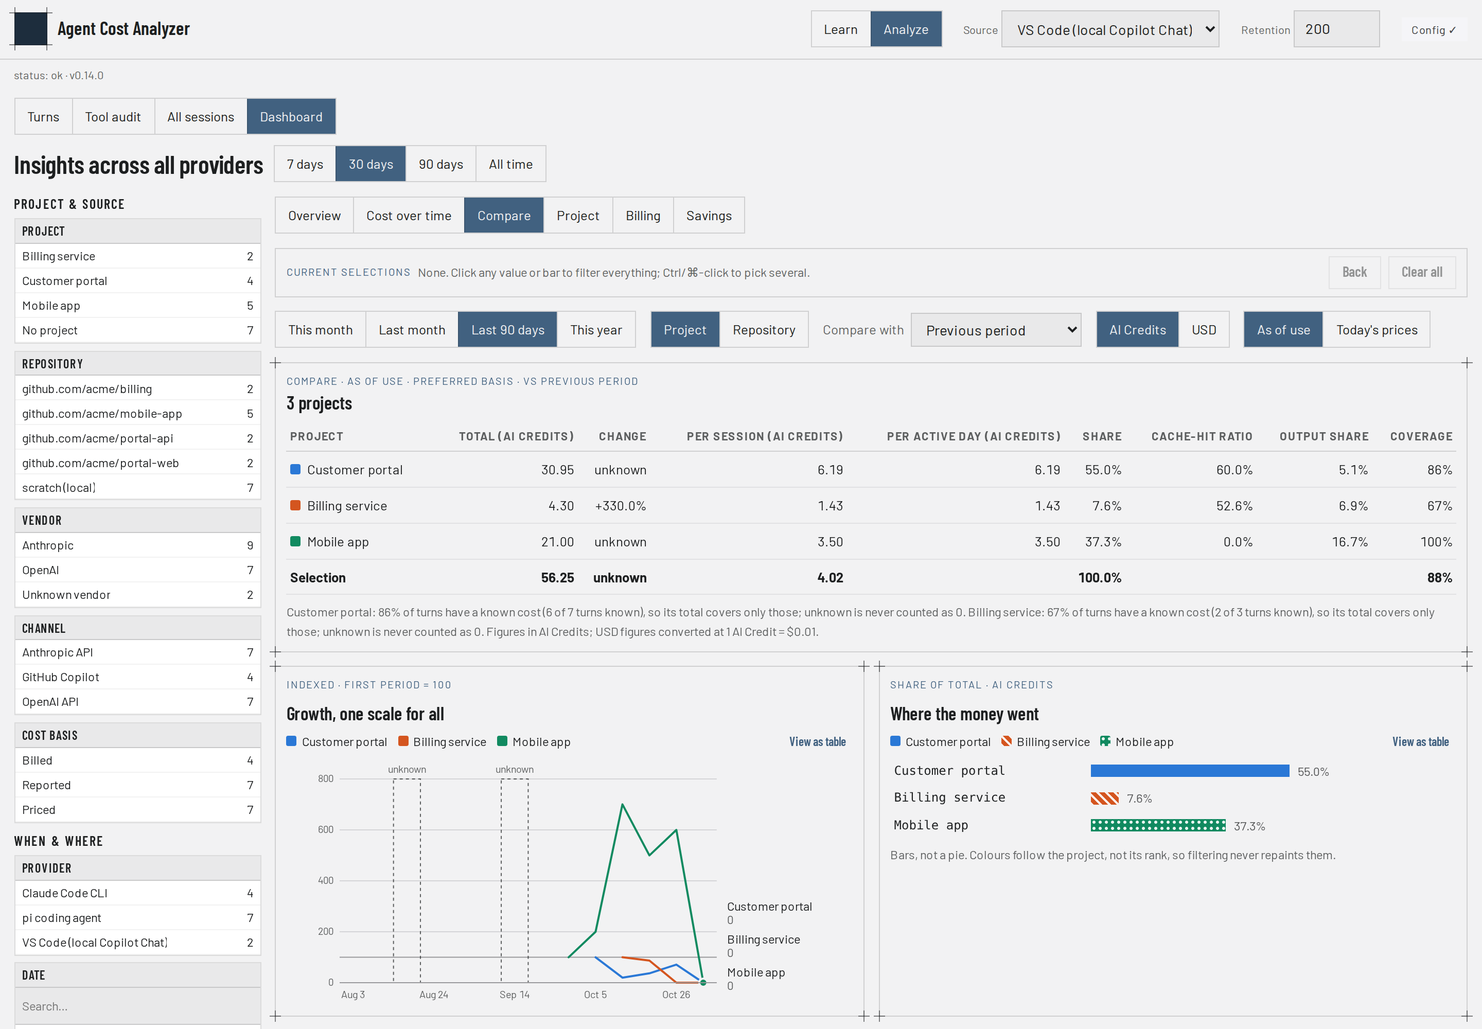
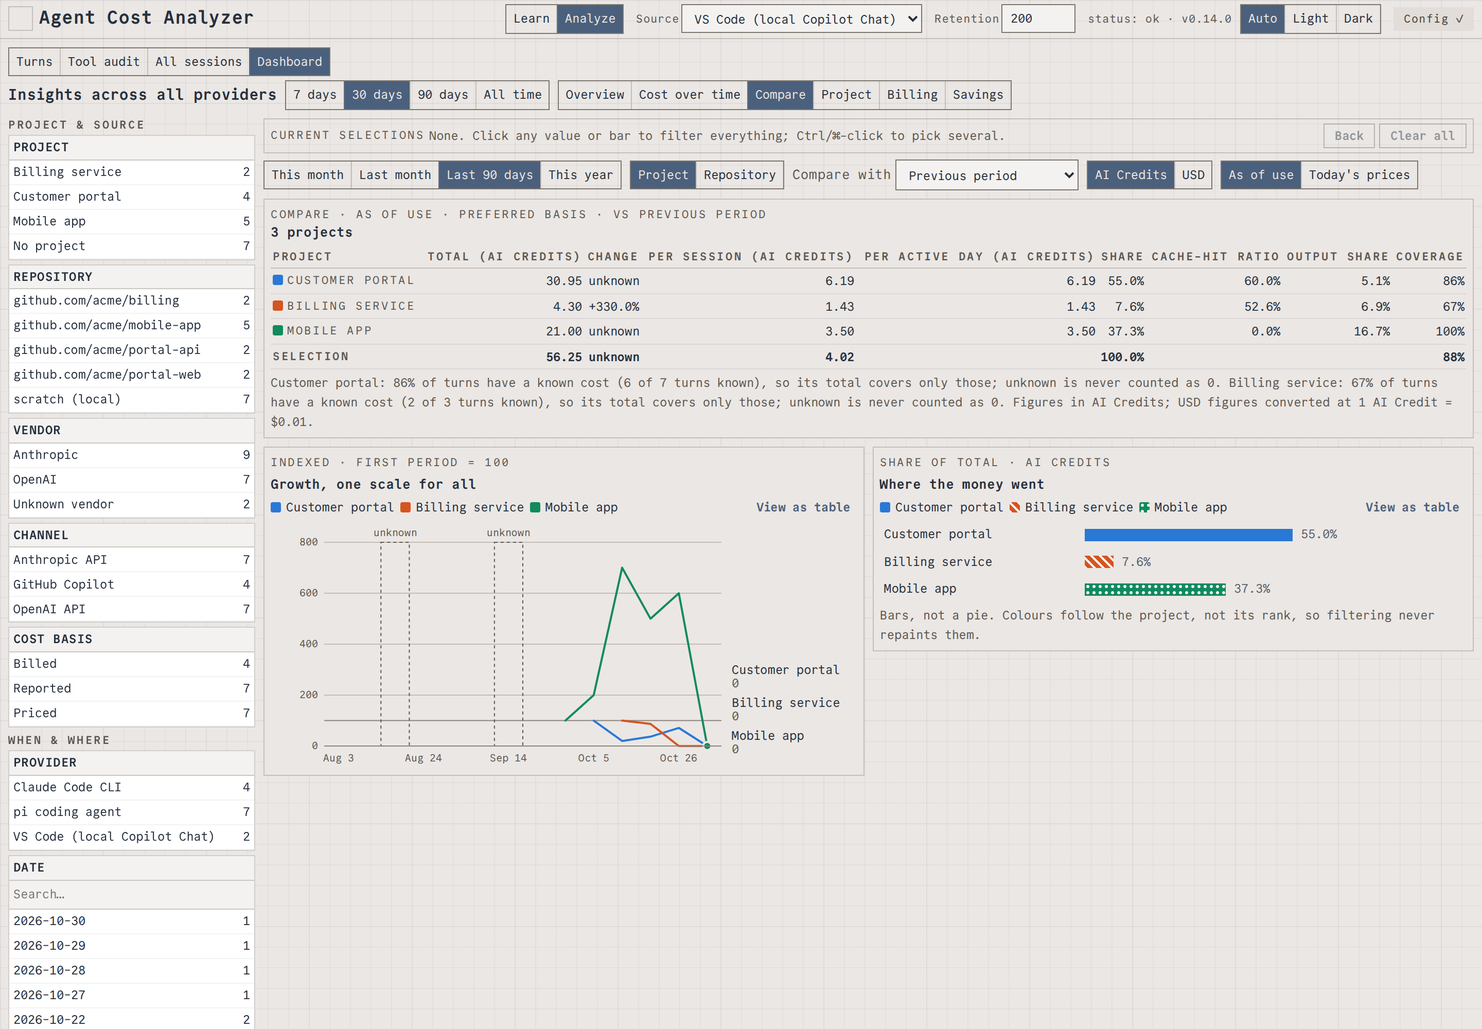
docs(17): L5 architecture, vision, User Guide colour theme, changelogs; regenerate standalone screenshots

diff --git a/docs/plans/dense-ledger-ui.md b/docs/plans/dense-ledger-ui.md
@@ -2,7 +2,7 @@
 
 **Last changed:** 2026-11-14 · **Source:** https://github.com/raulkivi/agent-cost-analyzer
 
-**Status: Increment 1 (P0-P7) done 2026-11-14; owner decisions D1-D4 accepted 2026-11-14; L1-L6 not started.** Phase 17 in
+**Status: Increment 1 (P0-P7) done 2026-11-14; owner decisions D1-D4 accepted 2026-11-14; Increment 2 L1-L5 done 2026-11-14; L6 review next.** Phase 17 in
 [implementation-plan.md](../implementation-plan.md).
 
 The question this answers: **"Why does the web UI need so much scrolling,
@@ -99,6 +99,22 @@ Baseline on the e2e fixture at 1440x900:
   - Light: parchment `#ebe7e4`, panel `#f4f2f0`.
   - One blue accent plus rust, alpha hairlines, radius 0.
   - Dark-mode series reuse the dark steps from `theme-vscode.css`.
+- Built in Increment 2 beyond the first design:
+  - An extra `--color-control-border` token. The alpha hairlines are too
+    faint for control outlines (3:1 needed), so buttons, inputs, segments and
+    filter chips use it, with `var(--color-divider)` as the fallback outside
+    ledger mode.
+  - Dark-mode overrides for hard-coded alert and list-box colours that the
+    token sets did not reach.
+  - Density tuning L3 needed in ledger mode so the Increment 1 limits still
+    hold: UI text 12px, tables 12px/1.3, tighter stat tile padding, turns
+    table cells 4px and headers 10px.
+  - `colorMode` host capability (`host-capabilities.ts`): true only for the
+    HTTP transport, so the webview and MCP Apps never show the switch or get
+    the attribute. The preference is stored under `localStorage` key
+    `aca.colorMode` (try/catch).
+  - Playwright projects `light` and `dark` (`colorScheme`) run the axe specs;
+    `color-mode.spec.ts` runs in `light` only.
 
 ## 5. Owner decisions
 
@@ -132,11 +148,11 @@ CHANGELOG updates)
 
 | ID | Work | Exit criterion | Complexity | Model | Depends on |
 |---|---|---|---|---|---|
-| L1 | Theme architecture: `html[data-color-mode=dark]` and `[light]` token sets in `theme.css` (palette in §4); `--font-mono` and `--font-prose` tokens; `fonts.ts` imports Commit Mono (400/700) and Source Serif 4 (400/600) and drops Barlow, `package.json` deps updated; `THIRD-PARTY-NOTICES.md` with the OFL notices; `theme-contrast.test.ts` gains standalone-light and standalone-dark themes; a new test that every ledger rule is scoped under `[data-color-mode]` (mirrors the `theme-vscode` scoping test); `standalone-build.test.ts` updated for the new font files | Contrast tests for both modes green; extension and MCP build tests unchanged and green; the `brand.css` test untouched | high | Opus | Increment 1 merged |
-| L2 | Colour-mode switch: pure `resolveColorMode(pref, prefersDark)` in `lib/`; `ColorModeSwitch` (Auto/Light/Dark `SegmentedControl`) in `AppHeader`, HTTP transport only; preference kept in `localStorage` (try/catch); `matchMedia` listener for Auto; attribute set in `main.tsx` before the first render (no flash) | Unit tests for the resolver, the switch and host gating; the webview never gets the attribute | medium | Sonnet | L1 |
-| L3 | Ledger component rules under `[data-color-mode]`: no corner marks; mono uppercase 11px labels with 0.12em tracking (`th`, `.card-kicker`, `.stat-tile-label`, `h6`); mono tabular numbers (`.table td`, `.stat-tile-value`, chart axes, `.hbar-value`); serif prose (`.insights-narrative`, ExplanationPanel body, Learn explanation); mono headings; faint grid texture on `body` only; bare `monospace` uses in `theme.css` become `var(--font-mono)` | `theme.test.ts` rule assertions; contrast green | medium | Sonnet | L1 |
-| L4 | Playwright: a `colorScheme: 'dark'` project running the axe specs with contrast on; `color-mode.spec.ts` covering the switch, persistence, Auto following the emulated scheme and no flash; checks that the MCP views and the VS Code panel don't change (existing mcp-apps e2e and wdio `layout-theme` stay green) | Both colour schemes pass axe; CI green | medium | Sonnet | L2, L3 |
-| L5 | Docs and media: `architecture.md` §4.2 and §13 (dark theme now in scope, standalone); `vision.md` §3.3; Phase 8 marked "superseded for the standalone app by Phase 17"; User Guide colour-mode section; root CHANGELOG `[Unreleased] Added/Changed`; regenerate the app screenshots (`packages/web/e2e/support/screenshots.mts`) and the panel stills (`scripts/ui-check/screenshots.mts`, density only); Gantt: Phase 17 at 100% and step 10.22 un-held | Docs reviewed; images refreshed | medium | Sonnet | L4 |
+| L1 | **Done 2026-11-14.** Theme architecture: `html[data-color-mode=dark]` and `[light]` token sets in `theme.css` (palette in §4); `--font-mono` and `--font-prose` tokens; `fonts.ts` imports Commit Mono (400/700) and Source Serif 4 (400/600) and drops Barlow, `package.json` deps updated; `THIRD-PARTY-NOTICES.md` with the OFL notices; `theme-contrast.test.ts` gains standalone-light and standalone-dark themes; a new test that every ledger rule is scoped under `[data-color-mode]` (mirrors the `theme-vscode` scoping test); `standalone-build.test.ts` updated for the new font files | Contrast tests for both modes green; extension and MCP build tests unchanged and green; the `brand.css` test untouched | high | Opus | Increment 1 merged |
+| L2 | **Done 2026-11-14.** Colour-mode switch: pure `resolveColorMode(pref, prefersDark)` in `lib/`; `ColorModeSwitch` (Auto/Light/Dark `SegmentedControl`) in `AppHeader`, HTTP transport only; preference kept in `localStorage` (try/catch); `matchMedia` listener for Auto; attribute set in `main.tsx` before the first render (no flash) | Unit tests for the resolver, the switch and host gating; the webview never gets the attribute | medium | Sonnet | L1 |
+| L3 | **Done 2026-11-14.** Ledger component rules under `[data-color-mode]`: no corner marks; mono uppercase 11px labels with 0.12em tracking (`th`, `.card-kicker`, `.stat-tile-label`, `h6`); mono tabular numbers (`.table td`, `.stat-tile-value`, chart axes, `.hbar-value`); serif prose (`.insights-narrative`, ExplanationPanel body, Learn explanation); mono headings; faint grid texture on `body` only; bare `monospace` uses in `theme.css` become `var(--font-mono)` | `theme.test.ts` rule assertions; contrast green | medium | Sonnet | L1 |
+| L4 | **Done 2026-11-14.** Playwright: a `colorScheme: 'dark'` project running the axe specs with contrast on; `color-mode.spec.ts` covering the switch, persistence, Auto following the emulated scheme and no flash; checks that the MCP views and the VS Code panel don't change (existing mcp-apps e2e and wdio `layout-theme` stay green) | Both colour schemes pass axe; CI green | medium | Sonnet | L2, L3 |
+| L5 | **Done 2026-11-14.** Docs and media: `architecture.md` §4.2 and §13 (dark theme now in scope, standalone); `vision.md` §3.3; Phase 8 marked "superseded for the standalone app by Phase 17"; User Guide colour-mode section; root CHANGELOG `[Unreleased] Added/Changed`; regenerate the app screenshots (`packages/web/e2e/support/screenshots.mts`) and the panel stills (`scripts/ui-check/screenshots.mts`, density only); Gantt: Phase 17 at 100% and step 10.22 un-held | Docs reviewed; images refreshed | medium | Sonnet | L4 |
 | L6 | Review: `/code-review` at high effort on the branch; live check at 1440x900 and 360px in light and dark against the exit metrics; before/after screenshots in the PR | Findings fixed or recorded in §10 | medium | Opus | L5 |
 
 ## 7. Parallelism and working setup
@@ -181,3 +197,4 @@ After merge, step 10.22 resumes at 1.10 (retakes in the new look).
 ## 11. Session log
 
 - 2026-11-14: plan written and D1-D4 accepted; worktree `../aca-phase17` (branch `claude/phase17-dense-ui`) created; P0 done.
+- 2026-11-14: Increment 2 L1-L4 merged; L5 (docs and media) done: architecture.md, vision.md, implementation-plan.md, User Guide, root CHANGELOG, Gantt, and the standalone app screenshots regenerated in ledger light. The VS Code panel stills (`scripts/ui-check/screenshots.mts`) are not regenerated here: they are retaken with step 10.22's final takes (D2). `screenshots.mts` regenerated 16 images; the other standalone stills (`landing-page.png`, `learn-scenario.png` and the older `guide-*.png`) come from step 10.22's still harness (task 1.9) and still show the Industry look until those retakes. L6 review next.

diff --git a/docs/implementation-plan-gantt.md b/docs/implementation-plan-gantt.md
@@ -93,7 +93,7 @@ gantt
     16 Savings report (78%, 18 of 23 tasks) :active, p16, 2026-11-12, 2d
 
     section UI density
-    17 Dense ledger UI (57%, 8 of 14 tasks)  :active, p17, 2026-11-14, 5d
+    17 Dense ledger UI (93%, 13 of 14 tasks)  :active, p17, 2026-11-14, 5d
 
     section Releases
     App v0.3.0-alpha :milestone, r0, 2026-08-09, 0d
@@ -125,7 +125,7 @@ gantt
 - Step 10.19 (classic subagent AI Credits, 100%): done 2026-11-13 (SA0 to SA18, 20 of 20 tasks; exit criterion met: `npm run test:real-data` passed 10 of 10 on the owner's logs, 177.64 AI Credits added, owner sign-off 2026-11-13). Before release: the real-Copilot gate. Plan: [classic-subagent-credits-implementation.md](plans/classic-subagent-credits-implementation.md). Step 10.20 (subagent tool calls in the audit) is a follow-up, not planned.
 - Step 10.21 (monthly allowance gauge, 100%): done 2026-11-13 (MA0 to MA12, 14 of 14 tasks; exit criterion met, review in plan §14). Before release: the real-Copilot check of the gauge in a live window (release UI gate). MA13 (standalone app) is a later increment. The Sessions row is hidden while VS Code's filter is active (plan §3.8). Plan: [monthly-allowance.md](plans/monthly-allowance.md).
 - Step 10.22 (extension demo recordings, 77%, 17 of 22 tasks): tasks 1.10-1.14 are held until Phase 17 merges (owner decision D2, 2026-11-14), then retaken once in the new look. Owner accepted D1-D8 and D10-D12 on 2026-11-13 (E11 not recorded). Phase 0 (text fixes 0.1-0.3) done 2026-11-13 (PR #255), to land before the 0.12.0/0.14.0 tags (D1); owner to check two findings in the plan's §11 (replay UI doesn't list left-out subagent runs; Learn count 17 vs 18); then Phase 1: spike 1.0 done (frame 1200x800, plan §5), tooling 1.1-1.5, fixture 1.6a, scenes 1.6b-1.6e, real-Copilot scenes 1.7 (written; owner runs the paid takes) stills 1.8 and app task 1.9 done; next the final takes and owner review (1.10), held until Phase 17 merges; then scenes 1.6a-1.10 and docs 1.11-1.14. Plan: [docs-refresh-and-demo-recordings.md](plans/docs-refresh-and-demo-recordings.md).
-- Phase 17 (dense ledger UI, 57%, 8 of 14 tasks): Increment 1 (P0-P7) done 2026-11-14; the Dashboard on the e2e fixture went from 2,444px to 1,467px tall at 1440x900 (`density.spec.ts`). Increment 1 (P1-P7) is the density pass in every host; Increment 2 (L1-L6) is the standalone ledger theme with light and dark modes. It holds step 10.22 tasks 1.10-1.14 until it merges (owner decision D2). Plan: [dense-ledger-ui.md](plans/dense-ledger-ui.md).
+- Phase 17 (dense ledger UI, 93%, 13 of 14 tasks): Increment 1 (P0-P7) and Increment 2 L1-L5 done 2026-11-14, L6 review next; the Dashboard on the e2e fixture went from 2,444px to 1,467px tall at 1440x900 (`density.spec.ts`). Increment 1 (P1-P7) is the density pass in every host; Increment 2 (L1-L6) is the standalone ledger theme with light and dark modes (L1-L5 done). It holds step 10.22 tasks 1.10-1.14 until it merges (owner decision D2). Plan: [dense-ledger-ui.md](plans/dense-ledger-ui.md). Standalone stills outside `screenshots.mts` (landing page, Learn scenario, older guide images) and the VS Code panel stills are retaken with step 10.22's final takes.
 - Phase 16 (savings report, 78%, 18 of 23 tasks): Increment 1 (SR0-SR17) done 2026-11-13, code and docs; SR16 review in plan §16 (5 findings fixed, 3 recorded). Open: owner review of the docs and the exit criterion on real data (30 days of Claude Code and Copilot sessions, one idle-expiry break and one unused tool checked by hand), D13-D15 owner decisions (SR7 thresholds, the active-provider switch from "Open in Analyze"), the release, then Increment 2 (SR18-SR22: MCP tool and view U18), not started. Plan: [savings-report.md](plans/savings-report.md).
 - Phase 14: steps 14.0-14.7 built; 14.8's docs written, the owner's review and the §13 exit criterion on real sessions open; the extension guide's replay screenshots open (User Guide's done). Step table: [analyze-session-replay.md](plans/analyze-session-replay.md) §12.
 - Phase 15: owner's review and exit criterion on real data.
@@ -244,7 +244,7 @@ gantt
 
 ## Phase 17 detail — Dense ledger UI
 
-Schedule view of the task tables in [dense-ledger-ui.md](plans/dense-ledger-ui.md) §6. Status: Increment 1 (P0-P7) done 2026-11-14, 8 of 14 tasks. Increment 2 (L1-L6) starts after Increment 1 merges; step 10.22 tasks 1.10-1.14 wait for the merge (owner decision D2).
+Schedule view of the task tables in [dense-ledger-ui.md](plans/dense-ledger-ui.md) §6. Status: Increment 1 (P0-P7) and Increment 2 L1-L5 done 2026-11-14, 13 of 14 tasks; L6 review next; step 10.22 tasks 1.10-1.14 wait for the merge (owner decision D2).
 
 ```mermaid
 %%{init: {
@@ -291,11 +291,11 @@ gantt
     P7 density.spec.ts and changelogs, medium, Sonnet (100%) :done, pp7, after pp6, 1d
 
     section Increment 2 ledger theme
-    L1 Theme architecture, high, Opus (0%)           :l1, after pp7, 2d
-    L2 Colour-mode switch, medium, Sonnet (0%)       :l2, after l1, 1d
-    L3 Ledger component rules, medium, Sonnet (0%)   :l3, after l1, 1d
-    L4 Playwright dark and switch, medium, Sonnet (0%) :l4, after l2, 1d
-    L5 Docs and media, medium, Sonnet (0%)           :l5, after l4, 1d
+    L1 Theme architecture, high, Opus (100%)           :done, l1, after pp7, 2d
+    L2 Colour-mode switch, medium, Sonnet (100%)       :done, l2, after l1, 1d
+    L3 Ledger component rules, medium, Sonnet (100%)   :done, l3, after l1, 1d
+    L4 Playwright dark and switch, medium, Sonnet (100%) :done, l4, after l2, 1d
+    L5 Docs and media, medium, Sonnet (100%)           :done, l5, after l4, 1d
     L6 Review, medium, Opus (0%)                     :l6, after l5, 1d
 ```
 

diff --git a/docs/architecture.md b/docs/architecture.md
@@ -1,6 +1,6 @@
 # Architecture: Agent Cost Analyzer and AI Credits Analyzer
 
-**Last changed:** 2026-11-13 · **Source:** https://github.com/raulkivi/agent-cost-analyzer
+**Last changed:** 2026-11-14 · **Source:** https://github.com/raulkivi/agent-cost-analyzer
 
 ## 1. Purpose & scope
 
@@ -22,6 +22,7 @@ before deviating from this document:
    store or any network service. Only local sources reachable through a
    configured log provider — the SQLite session store, local `main.jsonl`
    debug-log files, and local mitmproxy captures — are read (vision §4, §6).
+   Fonts are bundled through `@fontsource` imports (Commit Mono, Source Serif 4; OFL-1.1, notices in `THIRD-PARTY-NOTICES.md`), never fetched from a CDN.
 2. **A local server is required.** The browser cannot read arbitrary local
    files (SQLite DB, `.jsonl` logs) directly, so a small local process must
    read them and serve normalized data to the UI (vision §5).
@@ -267,7 +268,7 @@ SQLite, `main.jsonl`, or scenario fixtures.
 | `components/SystemPromptInspector` | Analyze-mode-only, full-page form (replaces the 3-column layout, not a tab): a three-pane view over the raw captured system-prompt text — a colored hierarchical tag/subtag menu (left), the byte-for-byte raw text with matching per-section background colors (center, scrolls to the clicked menu entry), and a description panel (right) explaining the selected tag, honestly labeled `Sourced` (with links) or `Not independently sourced` per constraint 6's spirit. Built entirely client-side from `lib/system-prompt-parser.ts` (defensive tag-tree parser), `lib/system-prompt-menu.ts` (labels + an 8-hue categorical palette), `lib/system-prompt-text.ts` (lossless colored-segment renderer), and `lib/system-prompt-descriptions.ts` (the tag glossary) — no new API surface, reuses `GET /api/sessions/:id/system-prompt` |
 | `components/ToolInventoryPanel` | Analyze-mode-only: tools loaded vs. tools actually invoked |
 | `components/ConfigWarningBanner` | Dismissible banner shown when `GET /api/config/status` reports unmet prerequisites; renders the exact setting name, current vs. recommended value, and step-by-step fix instructions (§6.3) |
-| `components/ui/*` | Shared design-system primitives (`Blueprint`, `Tag`, `SegmentedControl`) used across the components above, per the "Industry" design tokens in `theme.css` |
+| `components/ui/*` | Shared design-system primitives (`Blueprint`, `Tag`, `SegmentedControl`) used across the components above. `theme.css` has two layers: the `:root` "Industry" token set (the fallback for the VS Code webview and MCP Apps, with `--font-mono` and `--font-prose` mapped to system fonts) and the standalone "ledger" light and dark sets under `html[data-color-mode]` (Phase 17; mono UI, serif prose, square hairline panels, `--color-control-border` for control outlines). The VS Code webview and MCP Apps never get the attribute |
 | `state/session-store` | Holds the currently loaded `Session`, selected turn index, Learn/Analyze `mode`, selected Analyze log-provider id, and right-column `rightTab` (Analyze mode only); the rest of the UI is a pure function of this state |
 | `api-client` | Fetches provider descriptors, selects the active provider, and fetches sessions through the stable REST API; it is the only frontend module that knows an HTTP boundary exists |
 | `charts/*` | D3-based AI Credits sparkline rendered in the center column's header row |
@@ -2923,7 +2924,11 @@ refactored — red-green-refactor, not tests bolted on afterward.
   four repositories and two projects, `e2e/support/fixture-home.mts`) at a
   fixed clock (`AGENT_COST_ANALYZER_NOW`, read by the server's clock port
   `platform/clock/clock-from-env.ts`, and the page's clock), reads figures
-  from the page and runs axe in the browser at every stop. The required
+  from the page and runs axe in the browser at every stop. Two Playwright
+  projects, `light` and `dark` (`colorScheme`), run the axe specs in both
+  colour modes; `color-mode.spec.ts` covers the switch. The web contrast tests
+  (`theme-contrast.test.ts`) resolve the standalone-light and standalone-dark
+  themes beside the Industry `:root`. The required
   `web-e2e` CI job runs it with no retries.
 - Release gate (step 10.17, [release-ui-gate.md](plans/release-ui-gate.md)).
   The extension is gated by its integration suite, its Playwright UI check
@@ -3286,7 +3291,7 @@ open questions:
   ago"), not an absolute date.
 - Keyboard accessibility → in scope: session cards and table rows are
   `tabIndex="0"` with an Enter/Space `onKeyDown` mirroring their `onClick`.
-- Dark theme → stayed out of scope, per the v2 handoff's explicit call.
+- Dark theme → stayed out of scope, per the v2 handoff's explicit call. Phase 17 later brought light and dark modes to the standalone app only (owner decisions D1 and D4, 2026-11-14): an Auto/Light/Dark switch in the header, Auto following `prefers-color-scheme`; see [plans/dense-ledger-ui.md](plans/dense-ledger-ui.md).
 - App icon/favicon → stayed out of scope, deferred to Phase 10.
 - AI Credit formatting precision → up to 6 decimals with trailing zeros
   removed (`2.79598`), matching the nano-AIU source precision without a

diff --git a/docs/implementation-plan.md b/docs/implementation-plan.md
@@ -27,7 +27,7 @@ covers classic Copilot Chat subagent AI Credits (done 2026-11-13). Step 10.21
 Phase 16 ([plans/savings-report.md](plans/savings-report.md)) has its Increment 1 built (the
 owner accepted both plans' decisions on 2026-11-12). Phase 17
 ([plans/dense-ledger-ui.md](plans/dense-ledger-ui.md)) has Increment 1 (density, P0-P7)
-done 2026-11-14; it holds step 10.22 tasks 1.10-1.14 until it merges.
+and Increment 2 L1-L5 (ledger theme) done 2026-11-14, L6 review next; it holds step 10.22 tasks 1.10-1.14 until it merges.
 Each phase has a goal, concrete deliverables, an exit criterion (how you know
 it's done), and its dependencies. Phases are ordered so the riskiest/least
 certain work (real `main.jsonl` parsing) happens after there's already a
@@ -476,6 +476,8 @@ only chart that survived; it relocated out of `TurnsTable` into the center
 column's header row. See Phase 8 below.
 
 ## Phase 8 — Apply the "Industry" design system (visual UI polish)
+
+Superseded for the standalone app's look by Phase 17 (2026-11-14); the Industry tokens remain the VS Code/MCP fallback.
 
 **Goal**: replace the unstyled semantic-HTML frontend with the high-fidelity
 visual design handed off in `Design/GitHub chat analyser design 2.zip`
@@ -1697,7 +1699,7 @@ look.
 
 **Status (2026-11-14)**: Increment 1 (P0-P7) done: the Dashboard on the e2e
 fixture is 1,467px tall at 1440x900 (was 2,444px), checked by
-`packages/web/e2e/specs/density.spec.ts`. Increment 2 (L1-L6) not started.
+`packages/web/e2e/specs/density.spec.ts`. Increment 2: L1-L5 done 2026-11-14 (tokens and fonts, colour-mode switch, ledger rules, light and dark Playwright projects, docs and media); L6 review next.
 
 ## Summary dependency graph
 

diff --git a/docs/UserGuide.md b/docs/UserGuide.md
@@ -1,6 +1,6 @@
 # User Guide
 
-**Last changed:** 2026-11-13 · **Source:** https://github.com/raulkivi/agent-cost-analyzer
+**Last changed:** 2026-11-14 · **Source:** https://github.com/raulkivi/agent-cost-analyzer
 
 A walkthrough of the Agent Cost Analyzer's two modes — **Learn** (guided,
 bundled example sessions) and **Analyze** (your own real sessions from VS
@@ -37,6 +37,15 @@ Both modes use the same three-column layout:
 - **Right column** — an **Explanation** panel for the selected turn; in
   Analyze mode this becomes a three-tab panel (Explanation / System
   prompt / Tools).
+
+### Colour theme
+
+The header has an **Auto / Light / Dark** switch.
+
+- **Auto** (the default) follows your operating system's light or dark setting and changes with it.
+- **Light** and **Dark** fix the theme.
+- The choice is stored in your browser, not on the server.
+- The switch is in the standalone app only; the VS Code panel follows your VS Code theme.
 
 Clicking a table row, dragging the scrubber, or pressing **Enter/Space**
 on a focused row or card all drive the same "selected turn" state, so the

diff --git a/docs/vision.md b/docs/vision.md
@@ -1,6 +1,6 @@
 # Vision: Agent Cost Analyzer and AI Credits Analyzer
 
-**Last changed:** 2026-11-13 · **Source:** https://github.com/raulkivi/agent-cost-analyzer
+**Last changed:** 2026-11-14 · **Source:** https://github.com/raulkivi/agent-cost-analyzer
 
 ## 1. Problem
 
@@ -120,9 +120,10 @@ flowchart TB
 
 Applies to both modes identically; Analyze mode additionally tabs the right
 panel between Explanation, System prompt breakdown, and Tool inventory.
-Visual treatment (the "Industry" design system — hairline-bordered
-"blueprint" cards, steel-blue mono accent, square corners) is specified in
-`docs/implementation-plan.md`'s Phase 8.
+Visual treatment: the standalone app uses the "ledger" theme (monospace
+interface and numbers, serif explanations, square hairline panels, light,
+dark or auto; Phase 17). The VS Code panel and the MCP views keep their host
+themes with the "Industry" tokens (Phase 8) as the fallback.
 
 ## 4. Data sources for Analyze mode
 

diff --git a/CHANGELOG.md b/CHANGELOG.md
@@ -9,7 +9,13 @@ and this project adheres to [Semantic Versioning](https://semver.org/spec/v2.0.0
 
 ## [Unreleased]
 
+### Added
+
+- Light and dark colour themes with an Auto/Light/Dark switch in the header; Auto follows the OS setting.
+
 ### Changed
+
+- New look: monospace interface and numbers (Commit Mono), serif explanations (Source Serif 4), square hairline panels; Barlow is no longer bundled.
 
 - Denser layout: smaller spacing and type, 28px table rows, one toolbar row on the Dashboard, compact session and scenario lists that fill the column, 80px KPI tiles with the cost explanation in a footnote, a trend chart that fills its panel, one-line empty charts and a collapsed Learn sources list. The Dashboard is about 40% shorter.
 - The server status and version moved into the header.

diff --git a/packages/vscode-extension/CHANGELOG.md b/packages/vscode-extension/CHANGELOG.md
@@ -14,6 +14,7 @@ and this project adheres to [Semantic Versioning](https://semver.org/spec/v2.0.0
 ### Changed
 
 - Denser panel: smaller spacing, 28px table rows, one toolbar row on the Dashboard, compact KPI tiles with the cost explanation in a footnote, a trend chart that fills its panel and one-line empty charts.
+- Bar labels and code-style text now use the editor font instead of the browser's default monospace.
 
 ## [0.12.0] - 2026-11-13
 
